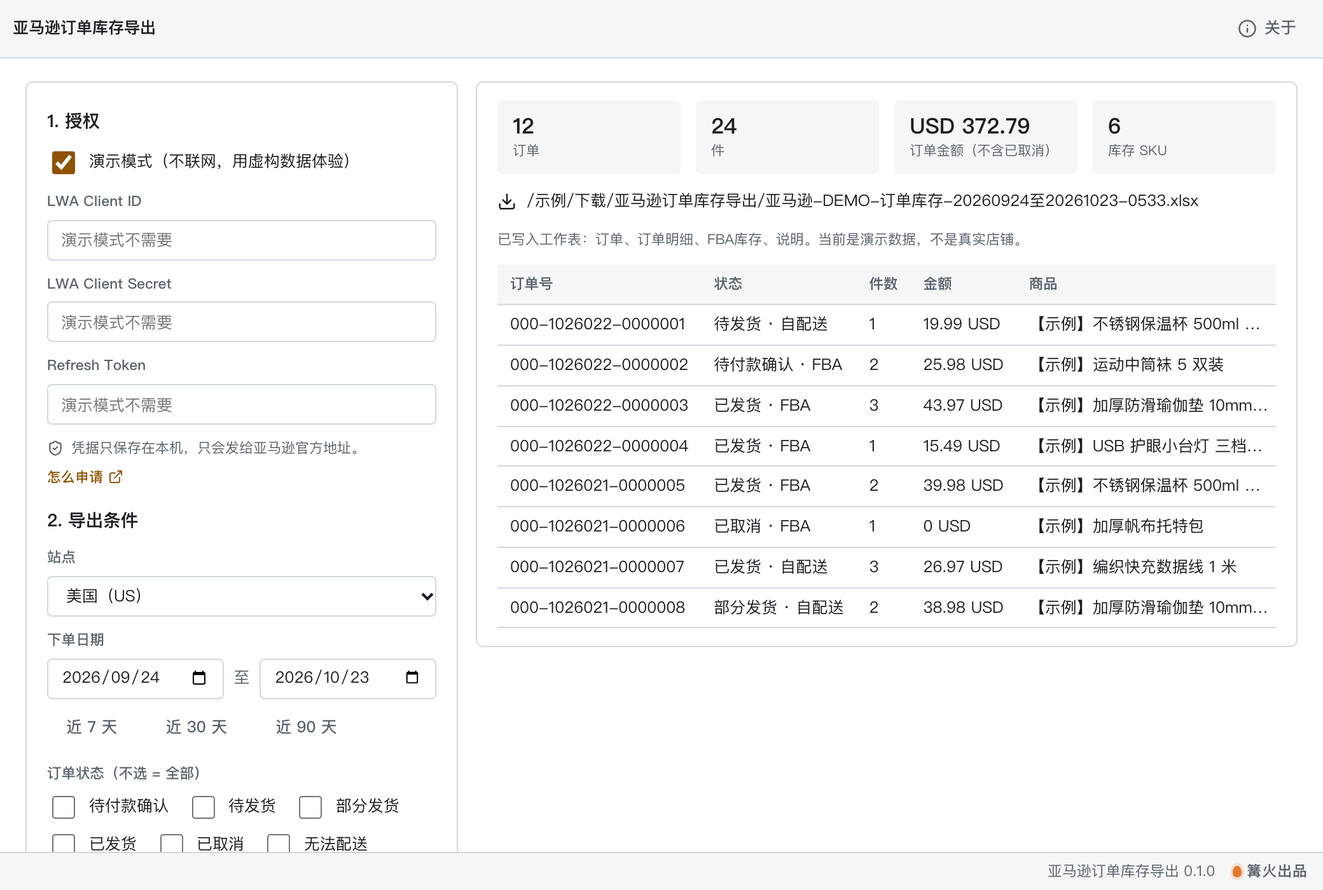
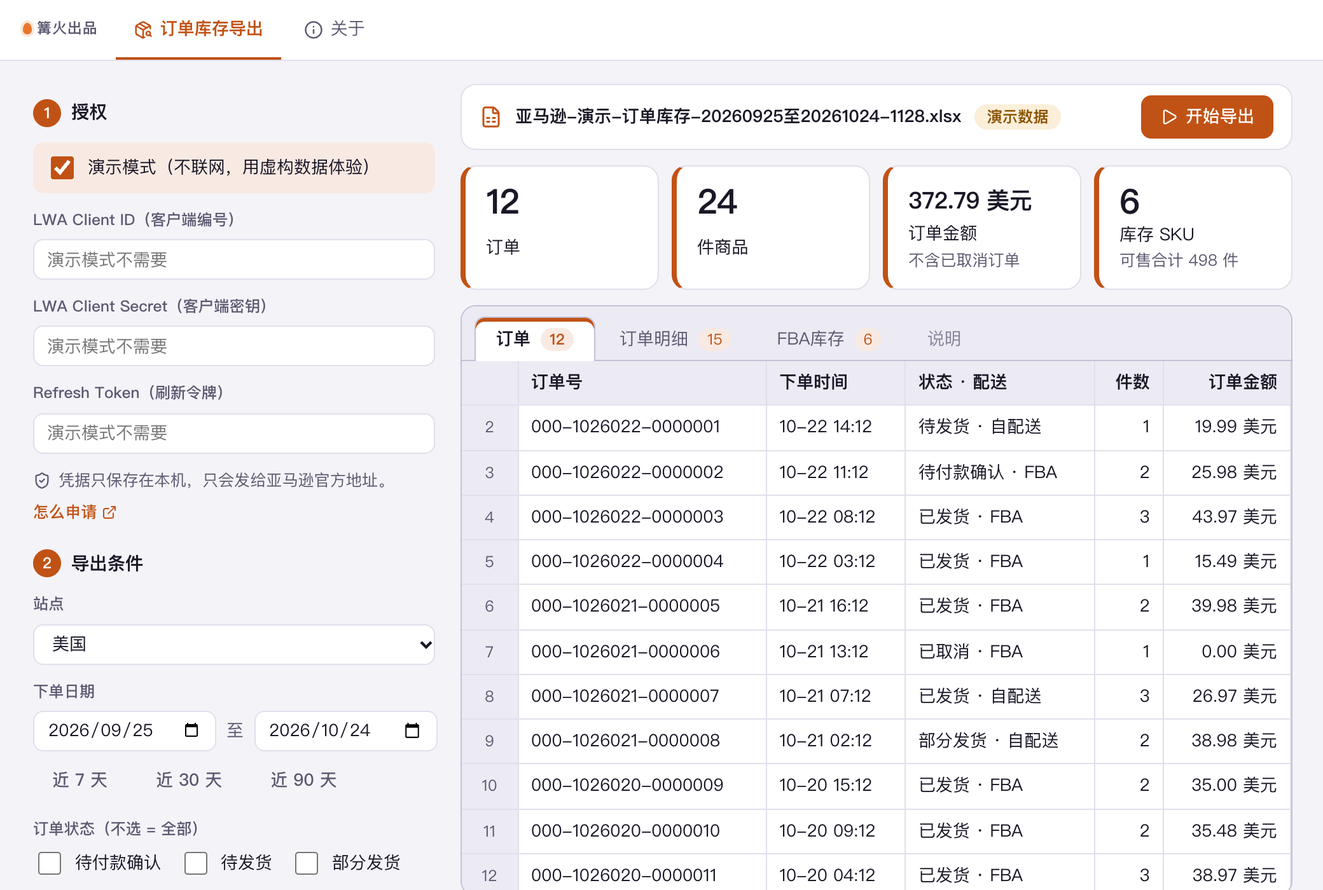
打磨界面：工作簿预览、大字汇总、全中文

diff --git a/src/tool/Main.tsx b/src/tool/Main.tsx
@@ -1,10 +1,10 @@
 // 主界面：左侧填授权与导出条件，右侧显示进度、汇总和订单预览。
-import { useEffect, useRef, useState } from 'react';
-import { Download, FolderOpen, Play, Square, ExternalLink, ShieldCheck } from 'lucide-react';
+import { useEffect, useMemo, useRef, useState } from 'react';
+import { ArrowRight, Check, FileSpreadsheet, FolderOpen, Loader2, Play, Square, ExternalLink, ShieldCheck } from 'lucide-react';
 import type { CustomTool } from '../kit/types';
 import { defaultOutputDir, httpFetch, openLink, reveal } from '../kit/platform';
 import {
-  FULFILLED_BY, MARKETPLACES, STATUSES, amountText, fulfilledByName, isAbort, maskSecret, presetRange, statusName, itemRows, orderRow,
+  FULFILLED_BY, MARKETPLACES, STATUSES, isAbort, maskSecret, presetRange, itemRows, orderRow, inventoryRow,
   type Credentials,
 } from './core';
 import { runExport, validateOpts, type ExportOutcome } from './flow';
@@ -20,6 +20,20 @@ const errText = (e: unknown) => (e instanceof Error ? e.message : String(e));
 const realFetcher: Fetcher = (url, init) => httpFetch(url, init) as ReturnType<Fetcher>;
 
 const STAGE: Record<string, string> = { token: '正在换取访问令牌', orders: '正在拉取订单', inventory: '正在拉取 FBA 库存' };
+const CUR: Record<string, string> = { USD: '美元', CAD: '加元', MXN: '墨西哥比索', BRL: '巴西雷亚尔', GBP: '英镑', EUR: '欧元', SEK: '瑞典克朗', PLN: '兹罗提', TRY: '土耳其里拉', AED: '迪拉姆', SAR: '里亚尔', EGP: '埃及镑', INR: '卢比', ZAR: '兰特', JPY: '日元', AUD: '澳元', SGD: '新加坡元' };
+const cur = (c: unknown) => CUR[String(c)] ?? String(c ?? '');
+const money = (v: unknown, c: unknown) => (v === '' || v == null ? '' : `${Number(v).toFixed(2)} ${cur(c)}`);
+const amounts = (a: Record<string, number>) => Object.entries(a).map(([c, v]) => `${v.toFixed(2)} ${cur(c)}`).join(' · ') || '—';
+
+type SheetKey = 'orders' | 'items' | 'inventory';
+type Col = [string, string, boolean?];
+const SHEETS: Record<SheetKey, { name: string; cols: Col[] }> = {
+  orders: { name: '订单', cols: [['orderId', '订单号'], ['createdShort', '下单时间'], ['state', '状态 · 配送'], ['units', '件数', true], ['amount', '订单金额', true]] },
+  items: { name: '订单明细', cols: [['orderId', '订单号'], ['title', '商品标题'], ['qty', '数量', true], ['unitPrice', '单价', true], ['itemTotal', '小计（到手）', true]] },
+  inventory: { name: 'FBA库存', cols: [['name', '商品名称'], ['fulfillable', '可售', true], ['reserved', '预留', true], ['inboundShipped', '入库-在途', true], ['unfulfillable', '不可售', true], ['total', '总数', true]] },
+};
+const STEPS: [string, string][] = [['token', '换取令牌'], ['orders', '拉取订单'], ['inventory', '拉取库存'], ['write', '写入 Excel']];
+
 
 export function Main({ ctx }: { ctx?: Ctx }) {
   const preview = isPreview();
@@ -47,7 +61,7 @@ export function Main({ ctx }: { ctx?: Ctx }) {
     abort.current = new AbortController();
     try {
       if (!demo) await saveCred(cred);
-      const outDir = preview ? '/示例/下载/亚马逊订单库存导出' : await defaultOutputDir('亚马逊订单库存导出');
+      const outDir = preview ? '/店铺运营/下载/亚马逊订单库存导出' : await defaultOutputDir('亚马逊订单库存导出');
       const io = ctx ?? { mkdir: async () => {}, writeFile: async () => {}, join: async (...p: string[]) => p.join('/') };
       const r = await runExport({
         cred, opts, now: new Date(), outDir, io, demo,
@@ -75,24 +89,41 @@ export function Main({ ctx }: { ctx?: Ctx }) {
         value={prefs.demo ? '' : cred[key]} placeholder={prefs.demo ? '演示模式不需要' : secret && cred[key] ? maskSecret(cred[key]) : ''} onChange={(e) => setCred({ ...cred, [key]: e.target.value })} />
     </div>
   );
-  const sample = out?.orders.slice(0, 8) ?? [];
+  const sheetsWanted = (['orders', 'items', 'inventory'] as SheetKey[]).filter((k) => (k === 'orders' ? prefs.wantOrders : k === 'items' ? prefs.wantItems : prefs.wantInventory));
+  const tables = useMemo(() => {
+    if (!out) return null;
+    const rows: Record<SheetKey, Record<string, string | number>[]> = {
+      orders: out.orders.map((o) => { const r = orderRow(o); return { ...r, createdShort: String(r.created).slice(5), state: `${r.status} · ${r.fulfilledBy}`, amount: money(r.total, r.currency) }; }),
+      items: out.orders.flatMap(itemRows).map((r) => ({ ...r, unitPrice: money(r.unitPrice, r.currency), itemTotal: money(r.itemTotal, r.currency) })),
+      inventory: out.inventory.map(inventoryRow),
+    };
+    return rows;
+  }, [out]);
+  const outKeys = out ? sheetsWanted : [];
+  const [tab, setTab] = useState<SheetKey>('orders');
+  const shown: SheetKey = outKeys.includes(tab) ? tab : (outKeys[0] ?? sheetsWanted[0] ?? 'orders');
   const pct = prog ? `${STAGE[prog.stage]}：第 ${prog.page || 1} 页，已取 ${prog.count} 条${prog.waitMs ? `（${prog.note}，等待 ${Math.ceil(prog.waitMs / 1000)} 秒）` : ''}` : '';
+  const stageIdx = prog ? STEPS.findIndex(([k]) => k === prog.stage) : 0;
+  const fileName = out ? out.path.split('/').pop() ?? out.path : '';
+  const sheet = SHEETS[shown];
+  const rowsOfSheet = tables && out ? tables[shown].slice(0, 12) : [];
+  const stat = (n: string | number, label: string, hint?: string) => <div className="ao-stat"><b className="ao-big k-num">{n}</b><span>{label}</span>{hint && <small className="k-muted">{hint}</small>}</div>;
 
   return (
     <div className="ao-root">
-      <section className="k-panel ao-side">
-        <h3 className="k-section">1. 授权</h3>
-        <label className="k-toggle"><input type="checkbox" checked={prefs.demo} disabled={busy} onChange={(e) => setP({ demo: e.target.checked })} /><span>演示模式（不联网，用虚构数据体验）</span></label>
-        {credInput('clientId', 'LWA Client ID', false)}
-        {credInput('clientSecret', 'LWA Client Secret', true)}
-        {credInput('refreshToken', 'Refresh Token', true)}
-        <p className="k-muted ao-note"><ShieldCheck size={13} /> 凭据只保存在本机，只会发给亚马逊官方地址。<button className="k-link" onClick={() => void openLink(DOCS)}>怎么申请<ExternalLink size={12} /></button></p>
+      <aside className="ao-form">
+        <h3 className="ao-h"><span>1</span>授权</h3>
+        <label className="k-toggle ao-demo"><input type="checkbox" checked={prefs.demo} disabled={busy} onChange={(e) => setP({ demo: e.target.checked })} /><span>演示模式（不联网，用虚构数据体验）</span></label>
+        {credInput('clientId', 'LWA Client ID（客户端编号）', false)}
+        {credInput('clientSecret', 'LWA Client Secret（客户端密钥）', true)}
+        {credInput('refreshToken', 'Refresh Token（刷新令牌）', true)}
+        <p className="k-muted ao-note"><ShieldCheck size={14} /> 凭据只保存在本机，只会发给亚马逊官方地址。<button className="k-link" onClick={() => void openLink(DOCS)}>怎么申请<ExternalLink size={12} /></button></p>
 
-        <h3 className="k-section">2. 导出条件</h3>
+        <h3 className="ao-h"><span>2</span>导出条件</h3>
         <div className="k-field">
           <label className="k-label" htmlFor="ao-mp">站点</label>
           <select id="ao-mp" className="k-input" value={prefs.marketplaceId} disabled={busy} onChange={(e) => setP({ marketplaceId: e.target.value })}>
-            {MARKETPLACES.map((m) => <option key={m.id} value={m.id}>{m.name}（{m.code}）</option>)}
+            {MARKETPLACES.map((m) => <option key={m.id} value={m.id}>{m.name}</option>)}
           </select>
         </div>
         <div className="k-field">
@@ -119,51 +150,82 @@ export function Main({ ctx }: { ctx?: Ctx }) {
           </select>
         </div>
         <div className="k-field">
-          <span className="k-label">导出内容</span>
+          <span className="k-label">写进 Excel 的工作表</span>
           <div className="ao-chips">
             <label className="k-toggle"><input type="checkbox" checked={prefs.wantOrders} disabled={busy} onChange={(e) => setP({ wantOrders: e.target.checked })} /><span>订单</span></label>
             <label className="k-toggle"><input type="checkbox" checked={prefs.wantItems} disabled={busy} onChange={(e) => setP({ wantItems: e.target.checked })} /><span>订单明细</span></label>
             <label className="k-toggle"><input type="checkbox" checked={prefs.wantInventory} disabled={busy} onChange={(e) => setP({ wantInventory: e.target.checked })} /><span>FBA 库存</span></label>
           </div>
         </div>
-        <div className="ao-actions">
+      </aside>
+
+      <main className="ao-book" aria-live="polite">
+        <header className="ao-bar">
+          <FileSpreadsheet size={18} />
+          <span className="ao-fname k-ellipsis" title={out?.path}>{out ? fileName : '导出结果.xlsx（尚未生成）'}</span>
+          {prefs.demo && <span className="ao-badge">演示数据</span>}
+          <span className="b-sp" />
+          {out && !preview && <button className="k-btn" onClick={() => void reveal(out.path)}><FolderOpen size={14} />在文件夹中显示</button>}
           {busy
             ? <button className="k-btn" onClick={() => abort.current?.abort()}><Square size={14} />停止</button>
             : <button className="k-btn primary" onClick={() => void start()}><Play size={14} />开始导出</button>}
-        </div>
-      </section>
-
-      <section className="k-panel ao-main">
+        </header>
         {error && <div className="k-notice err" role="alert">{error}</div>}
-        {busy && <div className="ao-busy"><span className="k-spin" /> {pct || '准备中…'}</div>}
-        {!busy && !out && !error && <div className="k-empty"><p>填好授权和条件后点「开始导出」。</p><p className="k-muted">没有店铺也可以先打开「演示模式」看完整流程。</p></div>}
+
+        {busy && (
+          <div className="ao-run">
+            <ol className="ao-steps">
+              {STEPS.map(([k, l], i) => (
+                <li key={k} className={i < stageIdx ? 'done' : i === stageIdx ? 'now' : ''}>
+                  <b>{i < stageIdx ? <Check size={14} /> : i === stageIdx ? <Loader2 size={14} className="k-spin" /> : i + 1}</b>{l}
+                </li>
+              ))}
+            </ol>
+            <p className="ao-prog">{pct || '准备中…'}</p>
+          </div>
+        )}
+
         {out && (
-          <>
-            <div className="ao-sum">
-              <div><b className="k-num">{out.totals.orders}</b><span className="k-muted">订单</span></div>
-              <div><b className="k-num">{out.totals.units}</b><span className="k-muted">件</span></div>
-              <div><b className="k-num">{amountText(out.totals.amount)}</b><span className="k-muted">订单金额（不含已取消）</span></div>
-              <div><b className="k-num">{out.totals.skus}</b><span className="k-muted">库存 SKU</span></div>
-            </div>
-            <div className="ao-file">
-              <Download size={15} /> <span className="k-ellipsis" title={out.path}>{out.path}</span>
-              {!preview && <button className="k-link" onClick={() => void reveal(out.path)}><FolderOpen size={14} />在文件夹中显示</button>}
-            </div>
-            <p className="k-muted ao-note">已写入工作表：{out.sheets.join('、')}、说明{prefs.demo ? '。当前是演示数据，不是真实店铺。' : ''}</p>
-            {sample.length > 0 && (
-              <div className="k-table-wrap k-scroll ao-table">
-                <table className="k-table">
-                  <thead><tr><th>订单号</th><th>状态</th><th>件数</th><th>金额</th><th>商品</th></tr></thead>
-                  <tbody>{sample.map((o) => {
-                    const r = orderRow(o);
-                    return <tr key={o.orderId}><td className="k-num">{r.orderId}</td><td>{statusName(o.fulfillment?.fulfillmentStatus)} · {fulfilledByName(o.fulfillment?.fulfilledBy)}</td><td className="k-num">{r.units}</td><td className="k-num">{r.total} {r.currency}</td><td><div className="ao-prod">{itemRows(o).map((i) => i.title).join(' / ')}</div></td></tr>;
-                  })}</tbody>
-                </table>
+          <div className="ao-stats">
+            {stat(out.totals.orders, '订单')}
+            {stat(out.totals.units, '件商品')}
+            {stat(amounts(out.totals.amount), '订单金额', '不含已取消订单')}
+            {stat(out.totals.skus, '库存 SKU', `可售合计 ${out.totals.fulfillable} 件`)}
+          </div>
+        )}
+
+        <div className="ao-sheet">
+          <div className="ao-tabs" role="tablist" aria-label="工作表">
+            {(sheetsWanted.length ? sheetsWanted : ['orders' as SheetKey]).map((k) => (
+              <button key={k} role="tab" aria-selected={shown === k} className={`ao-tab${shown === k ? ' on' : ''}`} onClick={() => setTab(k)}>
+                {SHEETS[k].name}{tables && <span className="k-num">{tables[k].length}</span>}
+              </button>
+            ))}
+            {out && <span className="ao-tab ghost">说明</span>}
+          </div>
+          <div className="ao-grid k-scroll">
+            <table>
+              <thead><tr><th className="ao-rn" />{sheet.cols.map(([k, l, r]) => <th key={k} className={r ? 'r' : ''}>{l}</th>)}</tr></thead>
+              <tbody>
+                {out ? rowsOfSheet.map((r, i) => (
+                  <tr key={i}><td className="ao-rn">{i + 2}</td>{sheet.cols.map(([k, , rr]) => <td key={k} className={rr ? 'r k-num' : k === 'orderId' ? 'k-num' : ''}>{String(r[k] ?? '')}</td>)}</tr>
+                )) : Array.from({ length: 6 }, (_, i) => (
+                  <tr key={i} className="ao-ghost"><td className="ao-rn">{i + 2}</td>{sheet.cols.map(([k]) => <td key={k}><i style={{ width: `${40 + ((i * 17 + k.length * 11) % 45)}%` }} /></td>)}</tr>
+                ))}
+              </tbody>
+            </table>
+            {!out && !busy && !error && (
+              <div className="ao-hint">
+                <div className="ao-flow"><span>亚马逊卖家账号</span><ArrowRight size={16} /><span>官方接口</span><ArrowRight size={16} /><span>本机 Excel</span></div>
+                <b>填好授权和条件，点「开始导出」</b>
+                <span className="k-muted">订单、订单明细和 FBA 库存会按左边勾选的工作表写进同一个 Excel。没有店铺也可以先打开「演示模式」看完整流程。</span>
               </div>
             )}
-          </>
-        )}
-      </section>
+          </div>
+          {out && tables && tables[shown].length > rowsOfSheet.length && <div className="ao-more k-muted">表里共 {tables[shown].length} 行，这里只预览前 {rowsOfSheet.length} 行，完整内容在导出的文件里。</div>}
+        </div>
+        {out && <p className="k-muted ao-note">已写入工作表：{out.sheets.join('、')}、说明{prefs.demo ? '。当前是演示数据，不是真实店铺。' : ''}</p>}
+      </main>
     </div>
   );
 }

diff --git a/src/tool/tool.css b/src/tool/tool.css
@@ -1,18 +1,55 @@
-/* 亚马逊订单库存导出：只用 kit.css 的变量，类名以 ao- 开头。 */
-.ao-root { flex: 1; min-height: 0; display: flex; flex-wrap: wrap; gap: 14px; align-items: flex-start; }
-.ao-side { flex: 0 1 340px; min-width: 280px; padding: 14px 16px; display: grid; gap: 10px; }
-.ao-main { flex: 1 1 380px; min-width: 0; padding: 14px 16px; display: grid; gap: 12px; align-content: start; min-height: 320px; }
-.ao-side .k-section { margin: 6px 0 0; }
-.ao-note { display: flex; align-items: center; gap: 6px; flex-wrap: wrap; font-size: .88em; margin: 0; }
+/* 亚马逊订单库存导出：只用 kit.css 的变量，类名以 ao- 开头。左边填条件，右边是「将要生成的 Excel」。 */
+.ao-root { flex: 1; min-height: 0; display: grid; grid-template-columns: minmax(280px, 320px) minmax(0, 1fr); gap: 18px; align-items: start; }
+.ao-form { display: grid; gap: 12px; padding: 4px 2px 12px; }
+.ao-h { margin: 8px 0 0; display: flex; align-items: center; gap: 8px; font-size: 1.05em; }
+.ao-h span { width: 22px; height: 22px; border-radius: 50%; display: inline-grid; place-items: center; background: var(--primary); color: var(--on-primary); font-size: .85em; }
+.ao-demo { padding: 8px 10px; border-radius: var(--radius); background: var(--primary-soft); }
+.ao-note { display: flex; align-items: center; gap: 6px; flex-wrap: wrap; font-size: .93em; margin: 0; }
 .ao-dates { display: flex; align-items: center; gap: 8px; }
 .ao-dates .k-input { min-width: 0; flex: 1; }
 .ao-chips { display: flex; flex-wrap: wrap; gap: 6px 14px; }
-.ao-actions { display: flex; gap: 8px; margin-top: 4px; }
-.ao-busy { display: flex; align-items: center; gap: 8px; }
-.ao-sum { display: grid; grid-template-columns: repeat(auto-fit, minmax(110px, 1fr)); gap: 12px; }
-.ao-sum > div { display: grid; gap: 2px; padding: 10px 12px; border-radius: var(--radius); background: var(--side); }
-.ao-sum b { font-size: 1.35em; line-height: 1.2; }
-.ao-sum .k-muted { font-size: .85em; }
-.ao-file { display: flex; align-items: center; gap: 8px; min-width: 0; }
-.ao-table { max-height: 330px; }
-.ao-prod { width: 190px; overflow: hidden; text-overflow: ellipsis; white-space: nowrap; }
+
+.ao-book { min-width: 0; display: grid; gap: 12px; align-content: start; }
+.ao-bar { display: flex; align-items: center; gap: 10px; padding: 8px 14px; border: 1px solid var(--line); border-radius: var(--radius-lg); background: var(--surface); color: var(--primary); }
+.ao-fname { color: var(--ink); font-weight: 600; min-width: 0; }
+.ao-badge { padding: 1px 10px; border-radius: 999px; background: var(--warn-soft); color: var(--warn); font-size: .9em; font-weight: 600; white-space: nowrap; }
+
+.ao-stats { display: grid; grid-template-columns: repeat(4, minmax(0, 1fr)); gap: 10px; }
+.ao-stat { display: grid; gap: 1px; padding: 12px 16px; border-radius: var(--radius-lg); background: var(--surface); border: 1px solid var(--line); border-left: 4px solid var(--primary); min-width: 0; }
+.ao-big { font-size: 2em; line-height: 1.15; font-weight: 700; letter-spacing: -.02em; overflow-wrap: anywhere; }
+.ao-stat:nth-child(3) .ao-big { font-size: 1.35em; padding: .3em 0 .2em; }
+.ao-stat > span { color: var(--ink); }
+.ao-stat small { font-size: .93em; }
+
+.ao-run { display: grid; gap: 8px; padding: 14px 16px; border: 1px solid var(--line); border-radius: var(--radius-lg); background: var(--surface); }
+.ao-steps { list-style: none; margin: 0; padding: 0; display: flex; gap: 8px; flex-wrap: wrap; }
+.ao-steps li { display: inline-flex; align-items: center; gap: 8px; padding: 6px 14px 6px 8px; border-radius: 999px; background: var(--chip); color: var(--muted); }
+.ao-steps li b { width: 22px; height: 22px; border-radius: 50%; display: inline-grid; place-items: center; background: var(--surface); font-size: .9em; }
+.ao-steps li.now { background: var(--primary-soft); color: var(--primary); font-weight: 600; }
+.ao-steps li.done { color: var(--ok); }
+.ao-steps li.done b { background: var(--ok-soft); }
+.ao-prog { margin: 0; }
+
+.ao-sheet { border: 1px solid var(--line-strong); border-radius: var(--radius-lg); background: var(--surface); overflow: hidden; }
+.ao-tabs { display: flex; gap: 2px; padding: 8px 10px 0; background: var(--chip); border-bottom: 1px solid var(--line-strong); }
+.ao-tab { display: inline-flex; align-items: center; gap: 8px; min-height: 34px; padding: 0 16px; border: 1px solid transparent; border-bottom: 0; border-radius: 8px 8px 0 0; background: transparent; color: var(--muted); cursor: pointer; font: inherit; }
+.ao-tab.on { background: var(--surface); border-color: var(--line-strong); color: var(--ink); font-weight: 600; margin-bottom: -1px; box-shadow: inset 0 3px 0 var(--primary); }
+.ao-tab.ghost { cursor: default; opacity: .7; }
+.ao-tab .k-num { font-size: .88em; padding: 0 7px; border-radius: 999px; background: var(--primary-soft); color: var(--primary); }
+.ao-grid { position: relative; overflow: auto; max-height: 420px; min-height: 260px; }
+.ao-grid table { border-collapse: collapse; width: 100%; }
+.ao-grid th, .ao-grid td { padding: 7px 10px; border-right: 1px solid var(--line); border-bottom: 1px solid var(--line); text-align: left; white-space: nowrap; max-width: 320px; overflow: hidden; text-overflow: ellipsis; }
+.ao-grid th { position: sticky; top: 0; background: var(--chip); font-weight: 700; z-index: 1; }
+.ao-grid .r { text-align: right; }
+.ao-rn { width: 44px; text-align: center !important; color: var(--muted); background: var(--chip); font-size: .9em; padding-inline: 4px !important; }
+.ao-ghost i { display: block; height: 10px; border-radius: 5px; background: var(--chip); }
+.ao-hint { position: absolute; inset: 40px 0 0; display: grid; place-content: center; justify-items: center; gap: 8px; text-align: center; padding: 16px 24px; background: linear-gradient(to bottom, transparent, var(--surface) 30%); }
+.ao-hint > b { font-size: 1.15em; }
+.ao-hint > span { max-width: 460px; line-height: 1.6; }
+.ao-flow { display: flex; align-items: center; gap: 10px; flex-wrap: wrap; justify-content: center; color: var(--muted); }
+.ao-flow span { padding: 6px 14px; border-radius: var(--radius); border: 1px solid var(--line-strong); background: var(--surface); color: var(--ink); font-weight: 600; }
+.ao-more { padding: 8px 14px; border-top: 1px solid var(--line); }
+@media (max-width: 880px) {
+  .ao-root { grid-template-columns: 1fr; }
+  .ao-stats { grid-template-columns: 1fr 1fr; }
+}

diff --git a/src/tool/flow.ts b/src/tool/flow.ts
@@ -26,7 +26,7 @@ export interface Io {
 export interface ExportOutcome { path: string; orders: ApiOrder[]; inventory: ApiInventorySummary[]; totals: Totals; sheets: string[] }
 
 export function validateOpts(cred: Credentials, o: ExportOpts, demo: boolean): string | null {
-  if (!demo && !credReady(cred)) return '请先填写 Client ID、Client Secret 和 Refresh Token（见「怎么申请」）';
+  if (!demo && !credReady(cred)) return '请先填写 Client ID（客户端编号）、Client Secret（客户端密钥）和 Refresh Token（刷新令牌），见「怎么申请」';
   if (!marketplaceById(o.marketplaceId)) return '请选择站点';
   if (!o.wantOrders && !o.wantItems && !o.wantInventory) return '至少选一项要导出的内容';
   return null;
@@ -64,9 +64,11 @@ export async function runExport(a: {
     info.push(['订单状态', o.statuses.length ? o.statuses.map(statusName).join('、') : '全部']);
     info.push(['配送方式', o.fulfilledBy ? fulfilledByName(o.fulfilledBy) : '全部']);
     info.push(['订单数 / 件数', `${t.orders} 单 / ${t.units} 件`]);
+    // check-zh: 忽略（接口字段名 proceeds.grandTotal，写进说明页供对账）
     info.push(['订单金额合计', amountText(t.amount) + '（不含已取消订单；取自接口 proceeds.grandTotal）']);
   }
   if (o.wantInventory) info.push(['FBA 库存', `${t.skus} 个 SKU，可售合计 ${t.fulfillable} 件`]);
+  // check-zh: 忽略（官方接口名称，写进说明页供核对）
   info.push(['数据来源', '亚马逊 SP-API（Orders 2026-01-01 searchOrders、FBA Inventory getInventorySummaries）']);
   info.push(['隐私', '未请求买家姓名、地址等个人信息']);
   if (a.demo) info.push(['注意', '演示数据，非真实店铺']);
@@ -78,7 +80,7 @@ export async function runExport(a: {
     info,
   });
   await a.io.mkdir(a.outDir);
-  const path = await a.io.join(a.outDir, exportFileName(a.demo ? 'DEMO' : mp.code, o.from, o.to, a.now));
+  const path = await a.io.join(a.outDir, exportFileName(a.demo ? '演示' : mp.code, o.from, o.to, a.now));
   await a.io.writeFile(path, bytes);
   const sheets = [o.wantOrders && '订单', o.wantItems && '订单明细', o.wantInventory && 'FBA库存'].filter(Boolean) as string[];
   return { path, orders, inventory, totals: t, sheets };

diff --git a/src/tool/core.ts b/src/tool/core.ts
@@ -57,7 +57,7 @@ export const STATUSES: [string, string][] = [
 ];
 export const statusName = (s?: string) => (s ? STATUSES.find(([k]) => k === s)?.[1] ?? s : '');
 
-export const FULFILLED_BY: [string, string][] = [['', '全部'], ['AMAZON', '亚马逊配送（FBA）'], ['MERCHANT', '卖家自配送']];
+export const FULFILLED_BY: [string, string][] = [['', '全部'], ['AMAZON', '亚马逊物流配送（FBA）'], ['MERCHANT', '卖家自配送']];
 export const fulfilledByName = (s?: string) => (s === 'AMAZON' ? 'FBA' : s === 'MERCHANT' ? '自配送' : s ?? '');
 
 // ---------------- 授权 ----------------
@@ -378,8 +378,8 @@ export function explainError(status: number, body: string): string {
     else if (j.error) { code = j.error; message = j.error_description ?? ''; }
   } catch { /* 不是 JSON */ }
   const tail = message ? `（${code ? code + '：' : ''}${message.slice(0, 160)}）` : code ? `（${code}）` : '';
-  if (code === 'invalid_client') return `Client ID 或 Client Secret 不正确${tail}`;
-  if (code === 'invalid_grant') return `Refresh Token 无效或已被撤销，请到卖家后台重新授权${tail}`;
+  if (code === 'invalid_client') return `Client ID（客户端编号）或 Client Secret（客户端密钥）不正确${tail}`;
+  if (code === 'invalid_grant') return `Refresh Token（刷新令牌）无效或已被撤销，请到卖家后台重新授权${tail}`;
   if (status === 401) return `授权失败，请检查凭据${tail}`;
   if (status === 403) return `没有权限：应用可能未申请对应角色，或站点不属于该卖家账户${tail}`;
   if (status === 429) return `请求太频繁，被亚马逊限流${tail}`;

diff --git a/CHANGELOG.md b/CHANGELOG.md
@@ -1,5 +1,13 @@
 # 更新记录
 
+## 0.2.0
+
+- 界面重做：右侧改成「将要生成的 Excel」，导出前用示意表头和占位行预览，导出后用工作表标签（订单 / 订单明细 / FBA 库存 / 说明）翻看真实数据的前 12 行。
+- 订单数、件数、订单金额和库存 SKU 用大字显示；导出进度改成分步显示。
+- 「开始导出」放到右上角文件栏，随时可点。
+- 金额币种改为中文名称，演示文件名和示例商品标题去掉英文。
+- 全部界面文字改为中文，授权字段加中文说明。
+
 ## 0.1.0
 
 - 首个版本。
